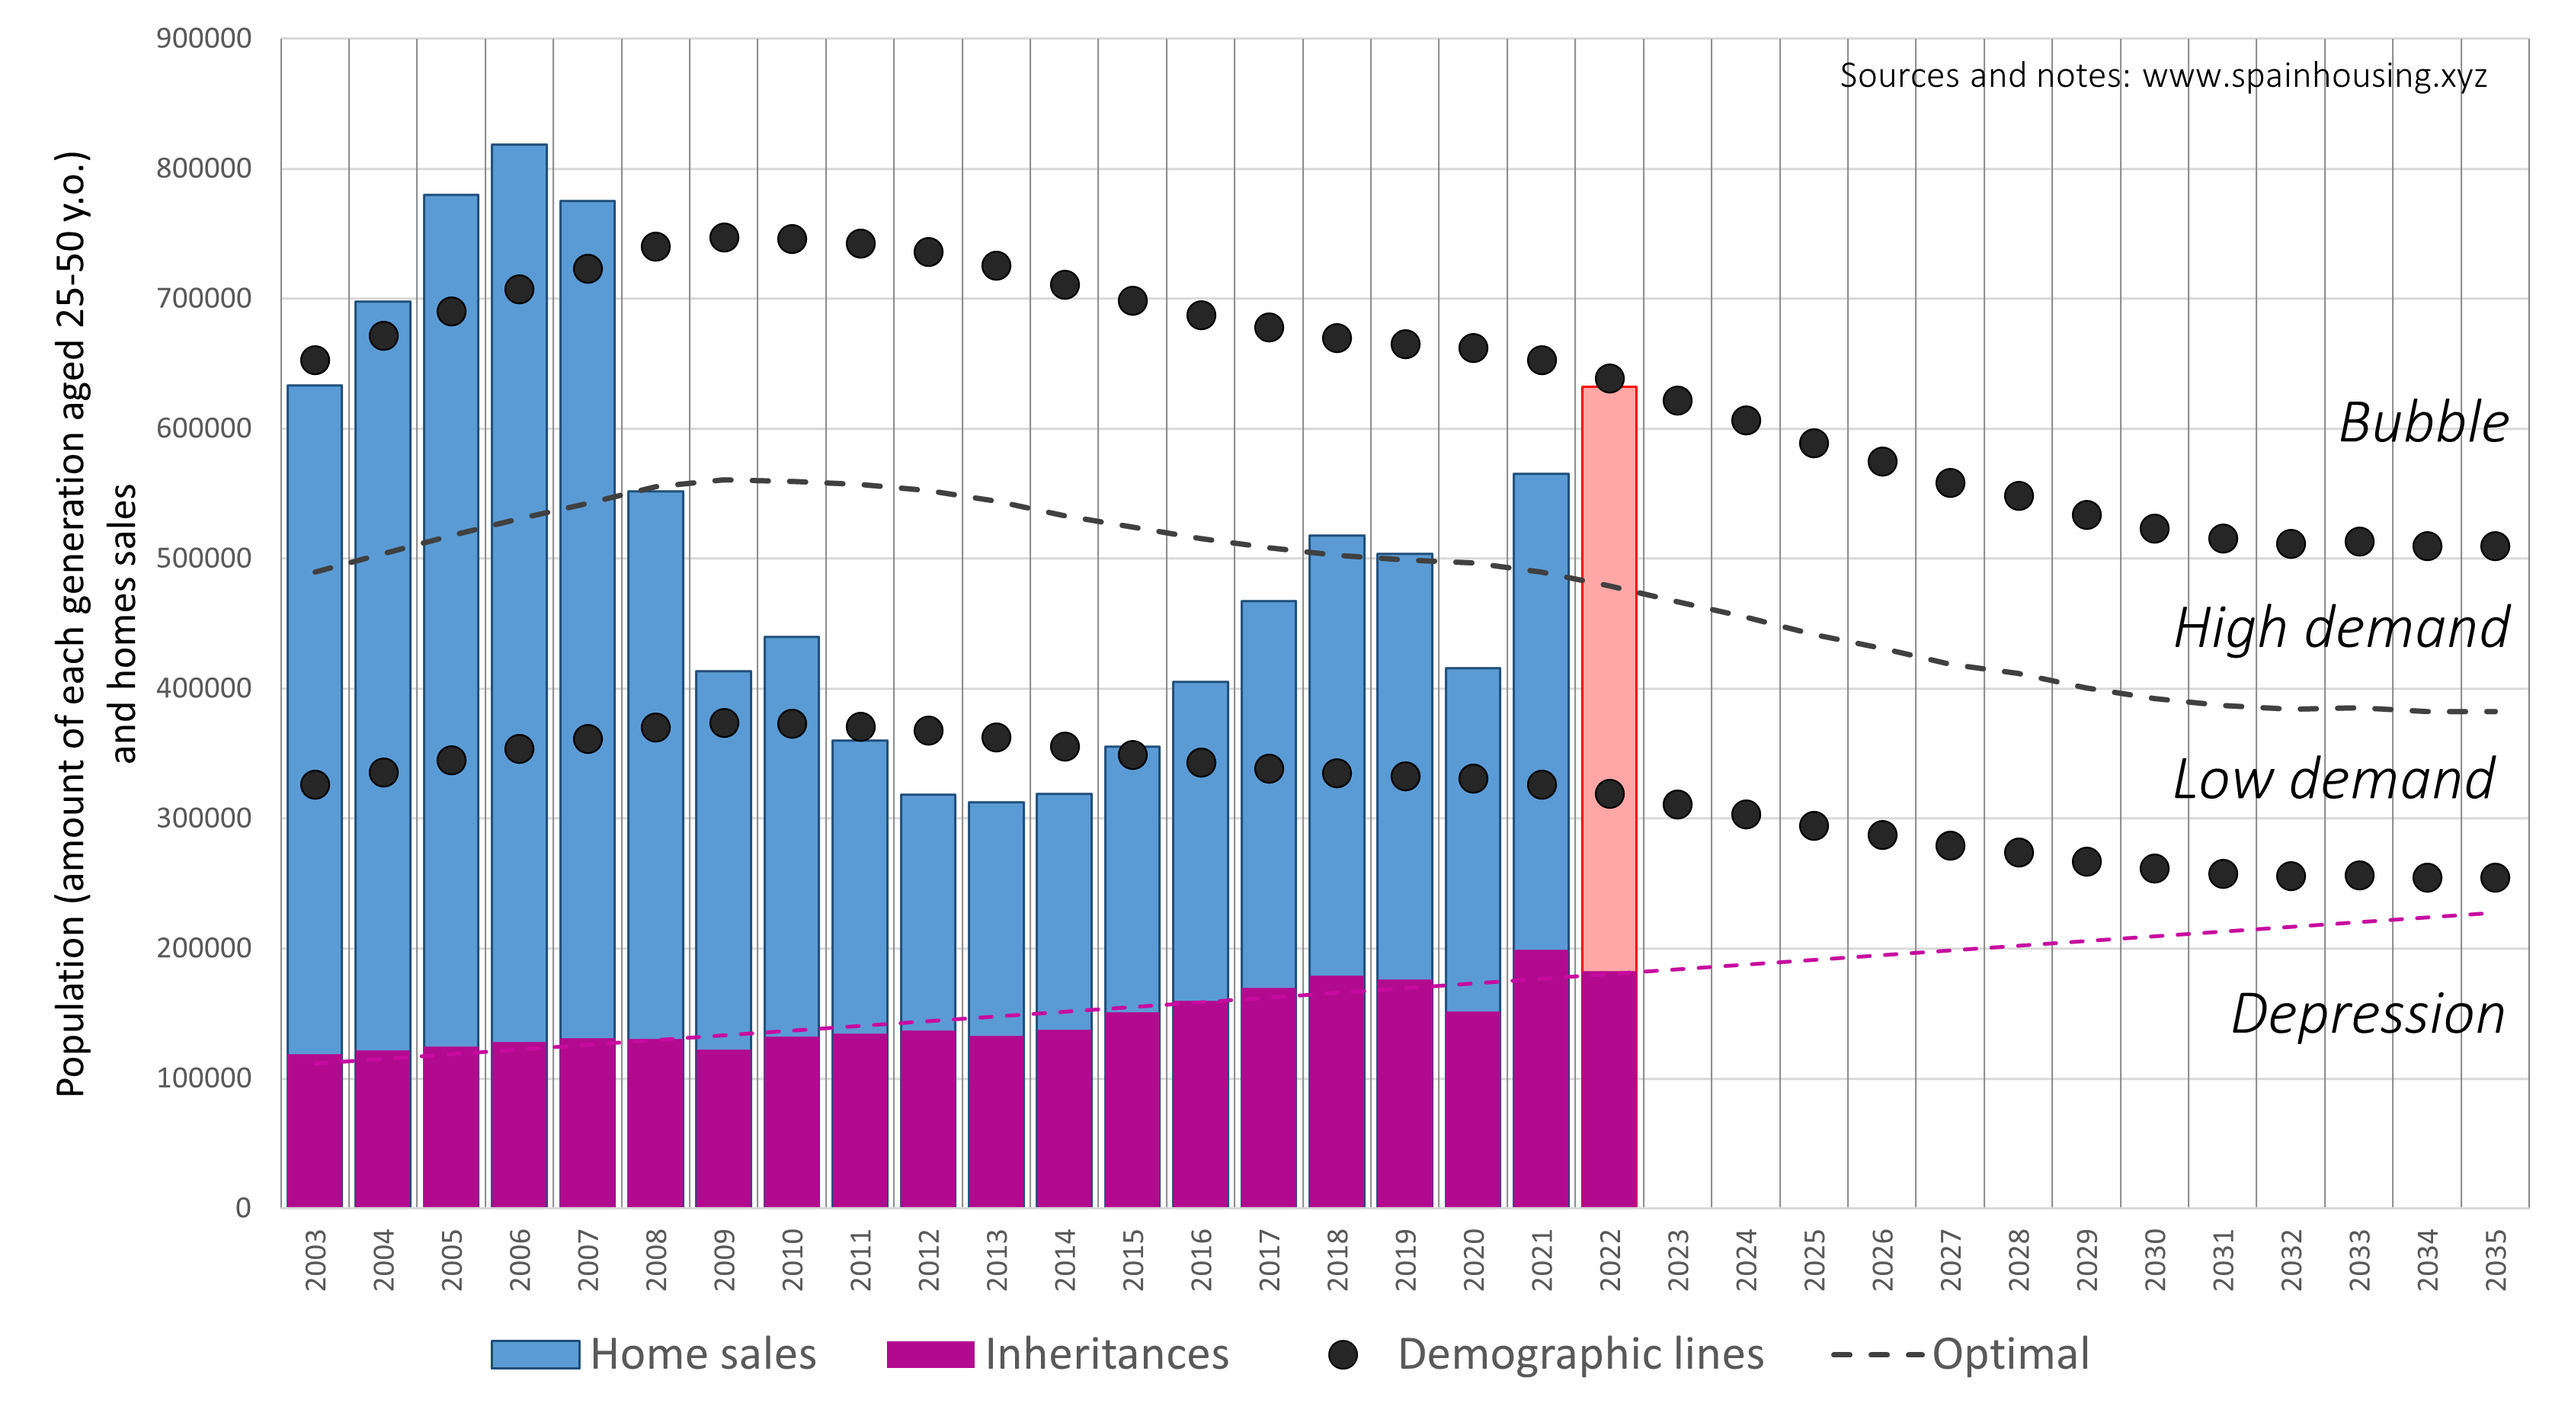
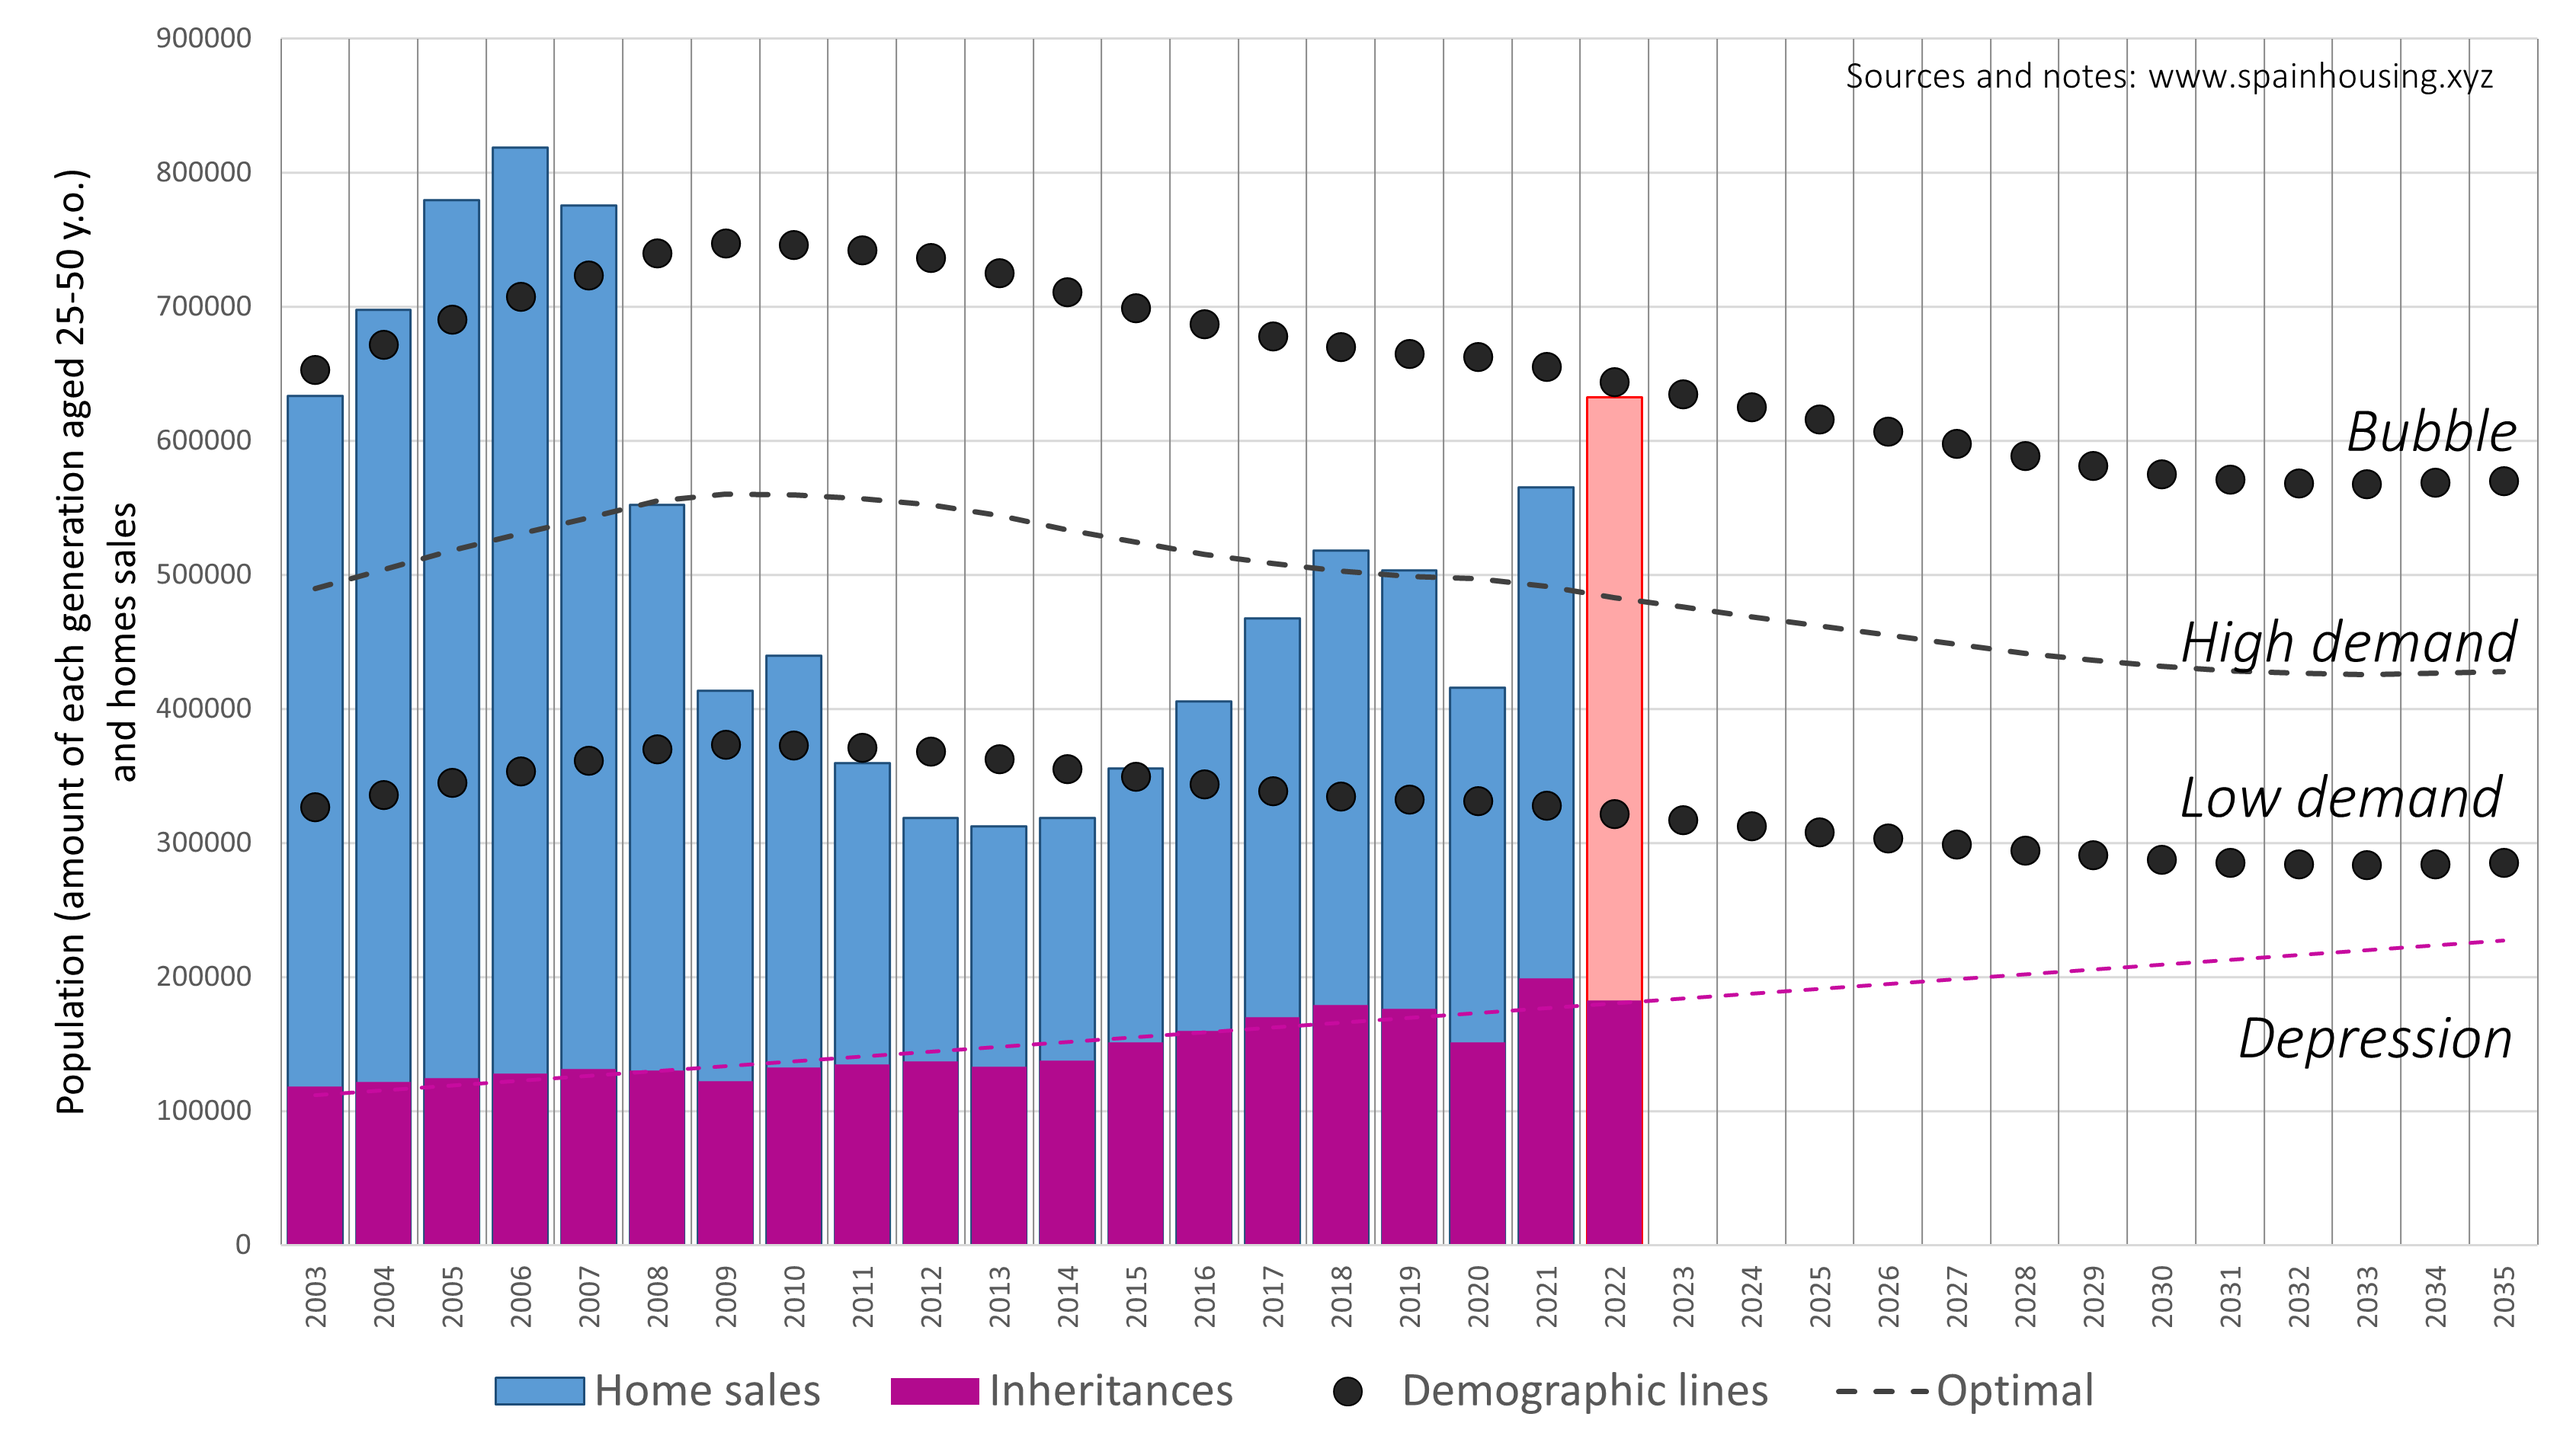
update

diff --git a/pages/posts/demography.md b/pages/posts/demography.md
@@ -16,7 +16,7 @@ import Image from 'next/image'
 
 [![Compraventa y edad de compra](/images/demografia2.png)](/images/demografia2.png)
 
-- **PAP disaggregated**: Home sales (bars); population of 35, 40 and 45 years old (colored dotted lines); and housing inheritances (purple bars).
+- **PAP disaggregated**: Home sales (bars); population of 30, 40 and 50 years old (colored dotted lines); and housing inheritances (purple bars).
 
 # Interpretation and observations
 
